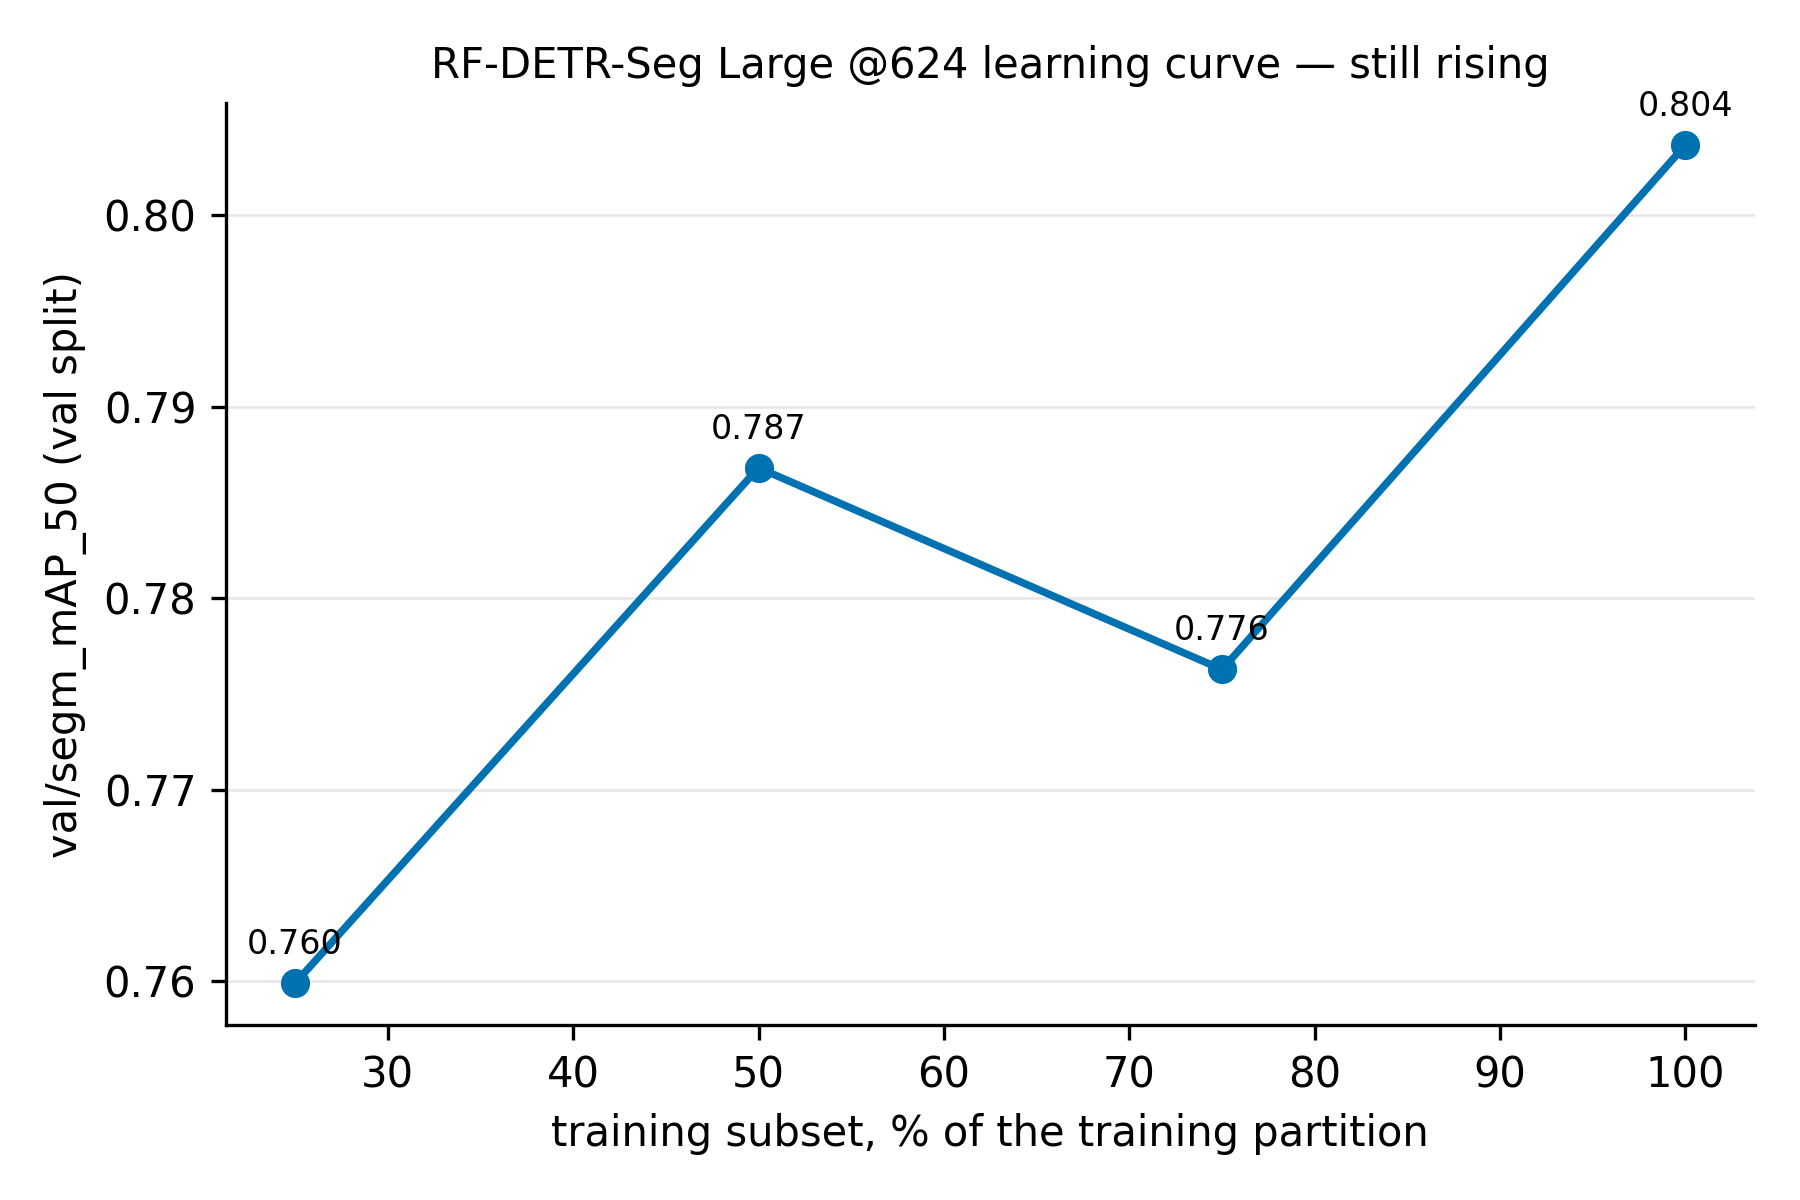
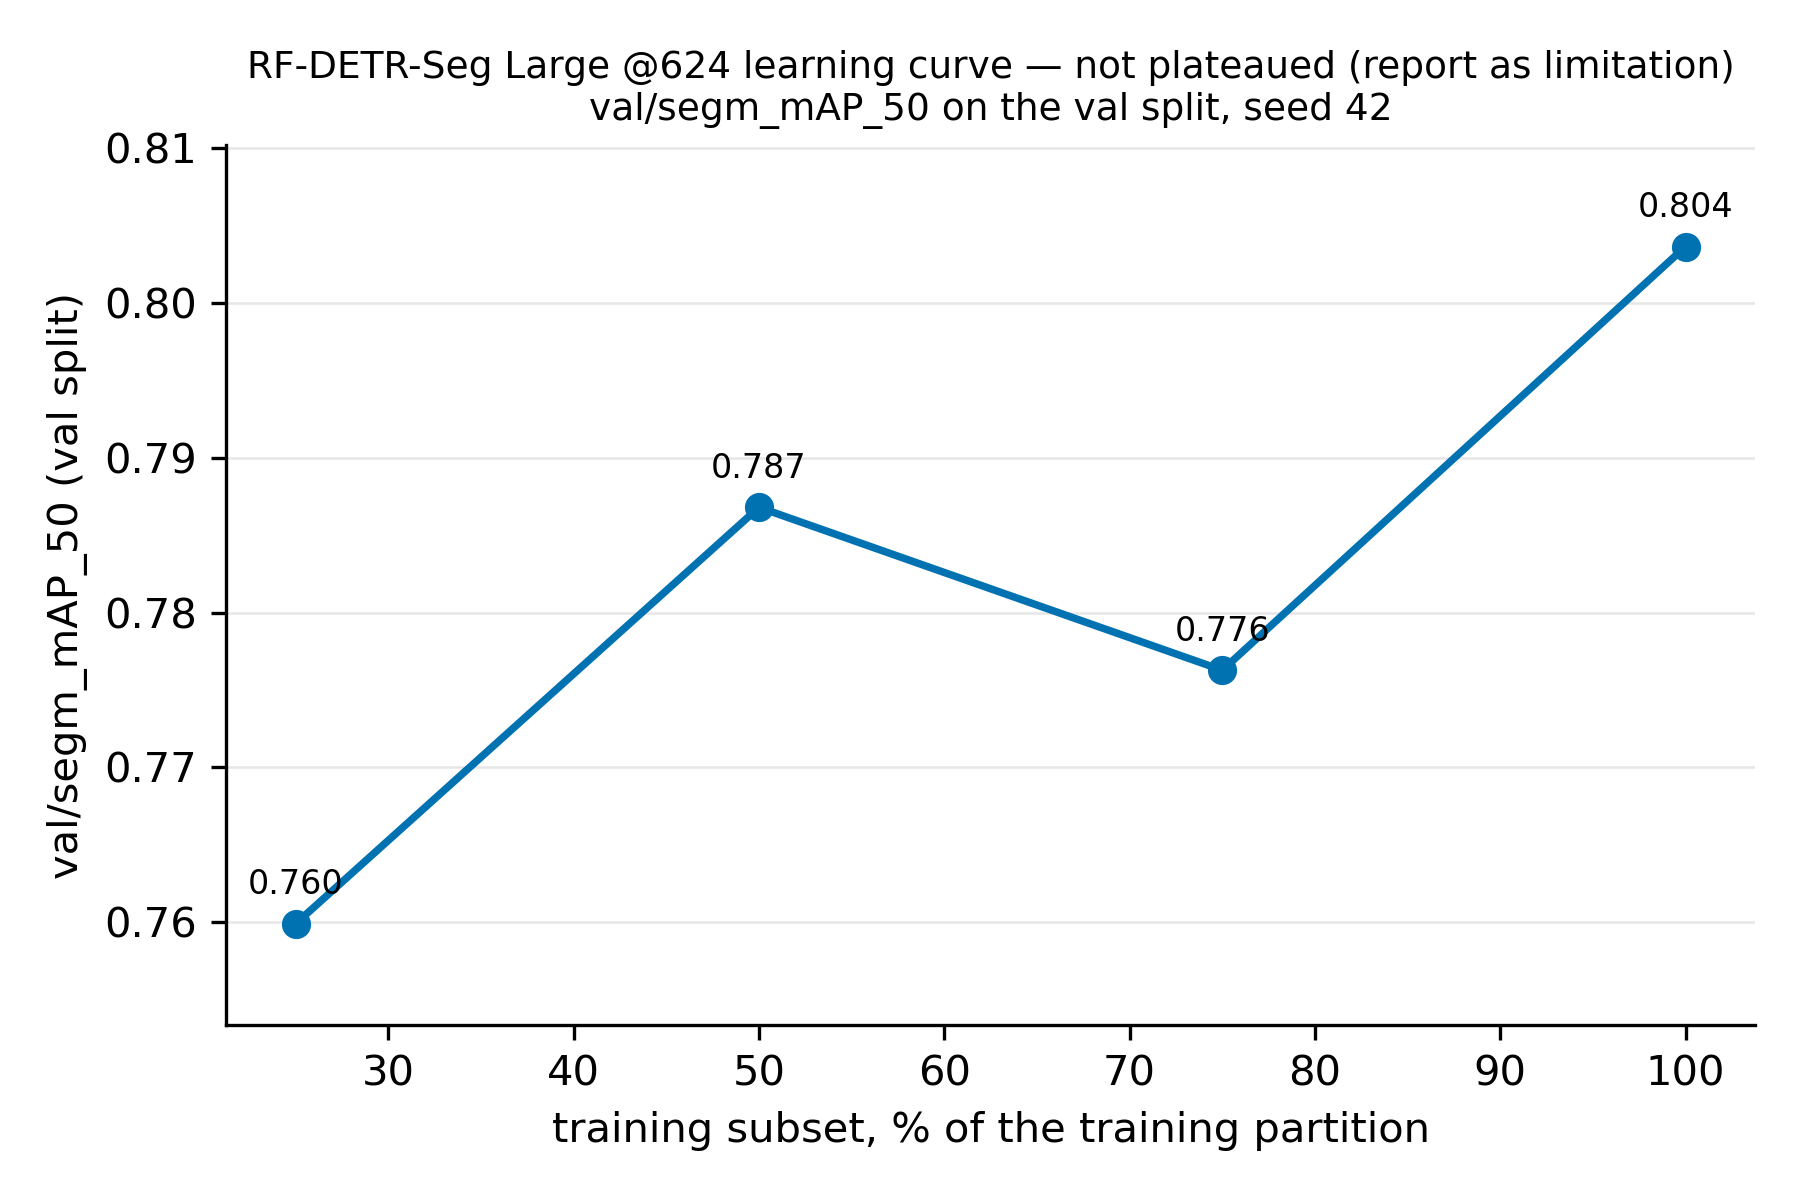
gummy_smile_v4: the learning curve is rebuilt with its metric named in the file
The curve's own artefacts are regenerated from the same four metrics files with
the fixed script: learning_curve.csv gains the `metric` column, the figure names
`val/segm_mAP_50` and the seed in its title, the verdict reads "not plateaued
(report as limitation)" in the vocabulary the YOLO curve already used, and the
reading records the three adjacent increments (+0.0269, -0.0105, +0.0274), the
dip at 75 % and the single seed behind each point. The numbers are unchanged.

The subset runs predate the evaluator field, so only the 100 % point records it;
the reading now says so instead of letting the one-evaluator guard pass in
silence.

build_rebuttal refuses to quote the learning curve while the Stage-7 table is
pending, because the CSV left beside a pending table belongs to the previous
final model.

diff --git a/gummy_smile_v4/scripts/build_rfdetr_learning_curve.py b/gummy_smile_v4/scripts/build_rfdetr_learning_curve.py
@@ -114,6 +114,12 @@ def main() -> int:
     if len(evals) != 1:
         raise SystemExit(f"the points come from different evaluators {sorted(evals)} — one curve, one evaluator (PLAN.md 4).")
     split, evaluator = splits.pop(), evals.pop()
+    # The subset runs predate the evaluator field (PLAN.md Amendment 2), so for them the one-evaluator
+    # rule is an assumption rather than a check. Say how many points actually recorded it.
+    n_recorded = int(df["evaluator"].notna().sum())
+    evaluator_note = ("" if n_recorded == len(df) else
+                      f" Recorded by {n_recorded} of the {len(df)} points; the others were written before the metrics "
+                      "file carried the field, so for them one evaluator is an assumption, not a check.")
 
     counts = {"lc25": "lc25_train.txt", "lc50": "lc50_train.txt", "lc75": "lc75_train.txt", "final (reused)": "main_train.txt"}
     df["n_train_images"] = [len([ln for ln in (lists / counts[r]).read_text().splitlines() if ln.strip()])
@@ -138,13 +144,14 @@ def main() -> int:
     for _, r in df.iterrows():
         ax.annotate(f"{r[metric]:.3f}", (r["fraction"] * 100, r[metric]), textcoords="offset points", xytext=(0, 7), ha="center", fontsize=8)
     ax.set_xlabel("training subset, % of the training partition"); ax.set_ylabel(f"{metric} ({split} split)")
-    ax.set_title(f"RF-DETR-Seg Large @624 learning curve — {metric} on {split}, seed {args.seed} — {verdict}", fontsize=9)
+    ax.set_title(f"RF-DETR-Seg Large @624 learning curve — {verdict}\n{metric} on the {split} split, seed {args.seed}", fontsize=9)
     ax.spines[["top", "right"]].set_visible(False); ax.grid(axis="y", color="0.9", lw=0.6); ax.set_axisbelow(True)
+    ax.margins(y=0.15)                            # headroom for the value printed above the last point
     fig.tight_layout(); fig.savefig(out_dir / "learning_curve.png", dpi=PLOT_DPI); plt.close(fig)
 
     text = f"""# Learning curve — RF-DETR-Seg Large @624 (PLAN.md 3)
 
-Model: **RF-DETR-Seg Large @624, seed {args.seed}**; evaluator: **{evaluator}**; split: **{split}**; metric: **{metric}**.
+Model: **RF-DETR-Seg Large @624, seed {args.seed}**; evaluator: **{evaluator}**; split: **{split}**; metric: **{metric}**.{evaluator_note}
 Each point is that training run's own COCO evaluation (`{args.metrics_dir}/rfdetr_metrics_*.json`); the 100 % point is the
 final model of PLAN.md 1, reused rather than retrained and evaluated on the same split as the subsets. The YOLOv11x
 learning curve is not mixed in here: it belongs to the previous final model and stays in the appendix.

diff --git a/gummy_smile_v4/gsv4/report/tables.py b/gummy_smile_v4/gsv4/report/tables.py
@@ -232,8 +232,13 @@ def learning_curve_facts(tab: Path, fallback_md: Path) -> Dict[str, Any]:
     here assumes which; the plateau wording downstream follows the verdict in the file, never the other
     way round.
     """
-    df = pd.read_csv(tab / "learning_curve.csv")
     meta = tab / "learning_curve.md"
+    if meta.exists() and "PENDING — needs:" in meta.read_text(encoding="utf-8"):
+        # the CSV beside it is then the previous model's curve, left behind by an earlier build
+        raise SystemExit(f"{meta} is pending: {meta.read_text(encoding='utf-8').split('needs:')[-1].strip()}\n"
+                         "The rebuttal is not written from another model's learning curve; produce that file and "
+                         "re-run scripts/build_report.py first.")
+    df = pd.read_csv(tab / "learning_curve.csv")
     metric = _md_meta(meta, "metric") or ("diseti_seg_map50" if "diseti_seg_map50" in df.columns else "")
     if metric not in df.columns:
         raise SystemExit(f"{tab / 'learning_curve.csv'} carries no readable curve metric ({metric!r}); "

diff --git a/gummy_smile_v4/outputs/09_final_rfdetr/learning_curve.md b/gummy_smile_v4/outputs/09_final_rfdetr/learning_curve.md
@@ -1,11 +1,15 @@
 # Learning curve — RF-DETR-Seg Large @624 (PLAN.md 3)
 
-Model: **RF-DETR-Seg Large @624, seed 42**; evaluator: **rfdetr model.evaluate (pycocotools, iouType=segm)**; split: **val**; metric: **val/segm_mAP_50**.
+Model: **RF-DETR-Seg Large @624, seed 42**; evaluator: **rfdetr model.evaluate (pycocotools, iouType=segm)**; split: **val**; metric: **val/segm_mAP_50**. Recorded by 1 of the 4 points; the others were written before the metrics file carried the field, so for them one evaluator is an assumption, not a check.
 Each point is that training run's own COCO evaluation (`outputs/08_architecture/rfdetr_metrics_*.json`); the 100 % point is the
 final model of PLAN.md 1, reused rather than retrained and evaluated on the same split as the subsets. The YOLOv11x
 learning curve is not mixed in here: it belongs to the previous final model and stays in the appendix.
 
-val/segm_mAP_50 gain 25→50 %: +0.0269; 75→100 %: +0.0274 → **still rising** (rule: 75→100 gain < 1/4 of the 25→50 gain).
+val/segm_mAP_50 gain 25→50 %: +0.0269; 75→100 %: +0.0274 → **not plateaued (report as limitation)** (rule: 75→100 gain < 1/4 of the 25→50 gain).
+
+Increments between adjacent points: 25→50 %: +0.0269; 50→75 %: -0.0105; 75→100 %: +0.0274. The curve is not monotonic: the 75 % point falls below the one before it, so the steps between neighbouring points are of the same order as the noise between runs. Each point is one training run with one
+seed (seed 42); the run-to-run spread was not measured, so the curve carries no error bars and the order
+of two adjacent points is not evidence on its own.
 
 | fraction | run | n_train_images | val/segm_mAP_50 |
 |---|---|---|---|
